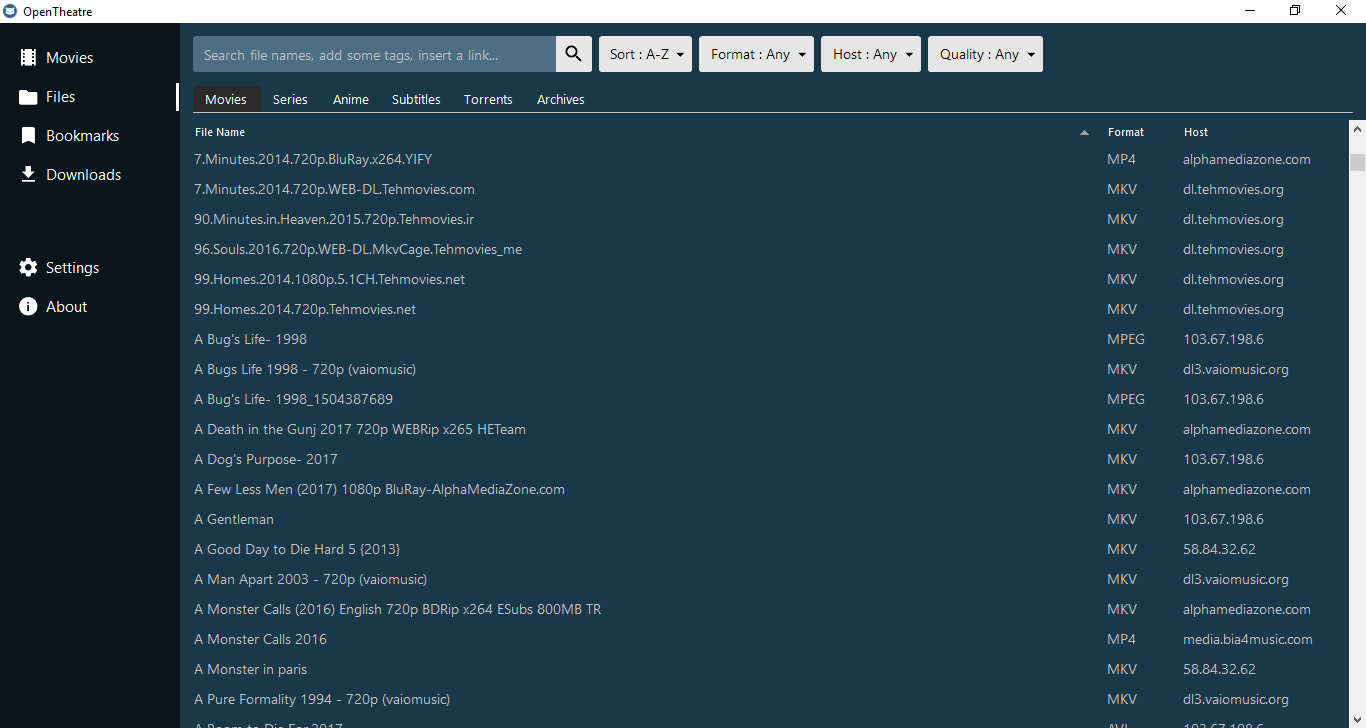
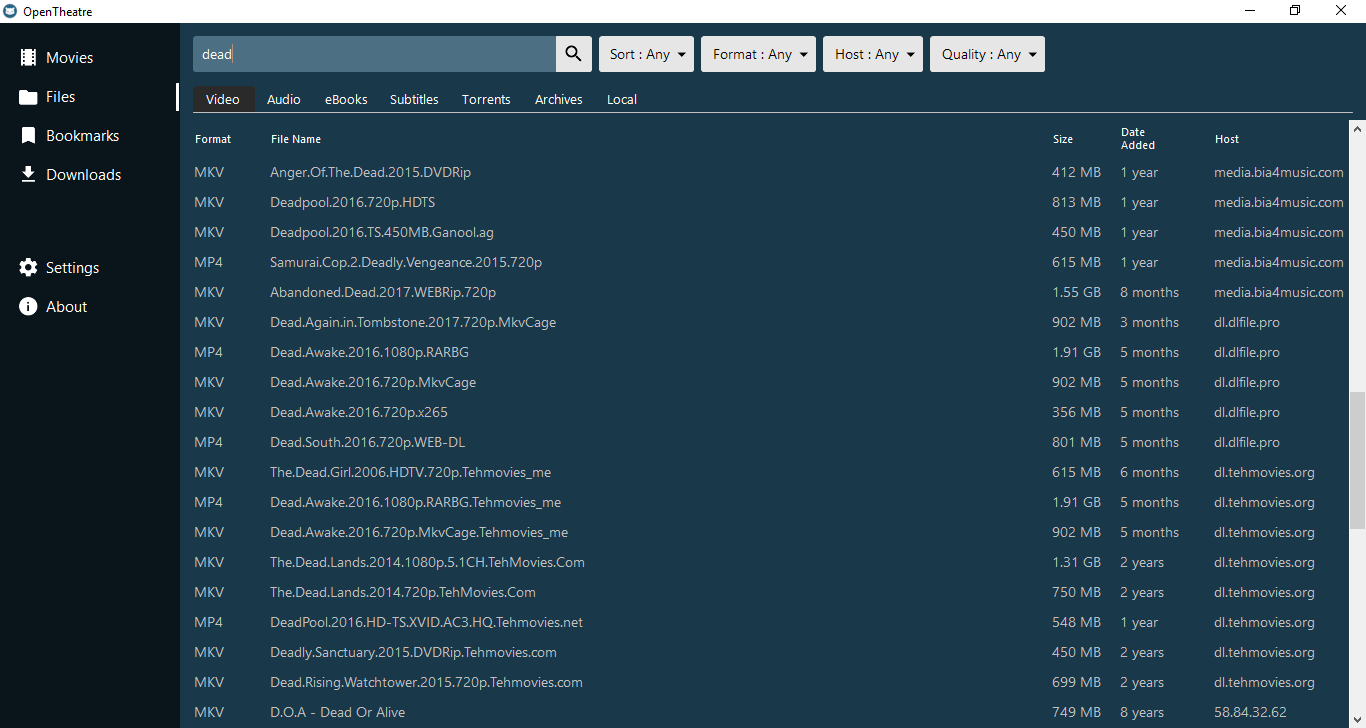
Updated screenshots

diff --git a/opentheatre/CControls/ctrlDetails.cs b/opentheatre/CControls/ctrlDetails.cs
@@ -84,7 +84,7 @@ namespace OpenTheatre
         {
             string noSymbolsTitle = Regex.Replace(infoTitle.Text, "[^A-Za-z0-9 _]", " ");
             string ifYearExists = ""; if (infoYear.Text != "Year") { ifYearExists = " " + infoYear.Text; }
-            frmOpenTheatre.form.selectedFiles = "Movies";
+            frmOpenTheatre.form.selectedFiles = "Video";
             frmOpenTheatre.form.txtFilesSearchBox.Text = noSymbolsTitle + ifYearExists;
             frmOpenTheatre.form.showFiles();
             frmOpenTheatre.form.tab.SelectedTab = frmOpenTheatre.form.tabFiles;
